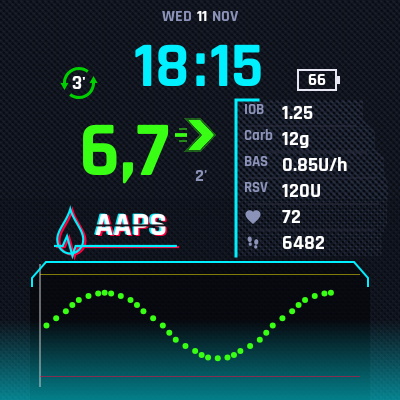
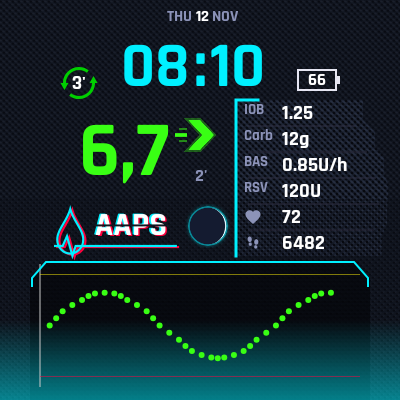
README: day look, moon and the Cyberpunk design

diff --git a/.github/README.md b/.github/README.md
@@ -8,7 +8,8 @@ the status lights count down to the end of the sensor and pod, and logs can be s
 > **Not an official AAPS release.** These changes are not reviewed by the AAPS team and are not
 > meant for upstream. AAPS controls insulin: build and use this only if you understand the code
 > and the risk. The phone side changes only how often data is sent to the watch, the status
-> lights, and how logs are saved. Nothing changes how insulin is given.
+> lights, how logs are saved, and it sends a rough place to the watch (see 4). Nothing changes
+> how insulin is given.
 
 The full upstream README is in [`/README.md`](../README.md).
 
@@ -21,7 +22,8 @@ All changes are made on top of upstream **4.0.0** (`master` at `f77abd9b82`).
 | `local/personal` | **The branch to build.** All changes below, merged. |
 | `local/wear-battery` | Less battery use on the watch, fewer messages from the phone |
 | `local/wear-hr-steps-design` | Heart rate and steps on the watch face, design *AAPS HR Steps* |
-| `local/wear-wake-animation` | Wake-up animation, design *AAPS Tech*, and later design updates |
+| `local/wear-wake-animation` | Wake-up animation, design *AAPS Tech* (now *Cyberpunk*), and later design updates |
+| `local/wear-day-night` | Day look and moon for watch face designs, design renamed to *Cyberpunk* |
 | `local/status-and-logs` | Phone: status lights count down to the real end, save logs to Downloads |
 
 `master` of this fork is a plain copy of upstream `master`.
@@ -56,30 +58,45 @@ All changes are made on top of upstream **4.0.0** (`master` at `f77abd9b82`).
 
 ### 3. Wake-up animation
 
-- A watch face design can have an optional `animation` block: **falling rain** and an image that
-  **beats at the measured heart rate**.
+- A watch face design can have an optional `animation` block: **falling rain** or short
+  **glitch bands**, and an image that **beats at the measured heart rate**.
 - It plays (24 frames per second) when you raise your wrist, when the watch face starts or becomes
   visible, or when you tap the screen. Then the face is still again.
 - How long it plays is a setting of the Custom watch face on the watch, *Wake-up animation*: as the
-  design asks (the default), off, or 3 to 30 seconds. AAPS Tech asks for 15 seconds.
+  design asks (the default), off, or 3 to 30 seconds. Cyberpunk asks for 15 seconds.
 - It never plays in ambient (always-on) mode, in simple UI, or in previews.
 - Designs without the `animation` block work exactly as before.
 
-### 4. Two watch face designs
+### 4. Day look and moon
+
+- A watch face design can have an optional `dayLook` block. In the day it is laid over the design,
+  and a picture `XDay` in the zip is shown instead of `X` (for example `BackgroundDay`).
+- **When it is day** is a setting of the Custom watch face on the watch, *Day / night look*:
+  *Automatic* (the default, from sunrise to sunset), *Day face* or *Night face*.
+- The always-on screen has its own setting, *Always-on look*: *Night face* (the default, a light
+  screen there costs battery), *Day face*, or *Same as active screen*.
+- The watch works out sunrise and sunset itself. For that, the phone sends its last known place,
+  **rounded to 0.1 degree (about 10 km)**, and only when AAPS has location permission. The phone
+  starts no location request for it. Without a place the day is 07:00 to 19:00.
+- A design can show the **phase of the moon**: the new value `moon_phase` picks a picture. The
+  watch works it out from the date, without phone or internet.
+- Both settings show only for a design that has a day look. Designs without it work as before.
+
+### 5. Two watch face designs
 
 The designs are in [`wear/cwf-designs`](../wear/cwf-designs). Install a zip the same way as any
 other custom watch face for AAPS.
 
-| AAPS Tech | AAPS HR Steps |
-|---|---|
-| ![AAPS Tech](images/aaps-tech.png) | ![AAPS HR Steps](images/aaps-hr-steps.png) |
-| Dark "cyberpunk" design: big digital time and BG in range colours, a table with IOB, carbs, basal, reservoir, heart rate and steps, the watch battery, and the graph. Rain and a beating drop in the logo when the watch wakes up. | The default analog design with round dials for COB, IOB, heart rate and steps, the watch battery, the date and a digital clock. |
+| Cyberpunk (night) | Cyberpunk (day) | AAPS HR Steps |
+|---|---|---|
+| ![Cyberpunk at night](images/aaps-tech.png) | ![Cyberpunk in the day](images/aaps-tech-day.png) | ![AAPS HR Steps](images/aaps-hr-steps.png) |
+| `Cyberpunk.zip` (was *AAPS Tech*). Dark neon design: big digital time and BG in range colours, a table with IOB, carbs, basal, reservoir, heart rate and steps, the watch battery, the moon, and the graph. Rain and a beating drop in the logo when the watch wakes up. | The same design in the day: signal yellow and black. The BG, the arrow, the table and the graph stay on black panels in their night colours, so green, yellow and red keep their meaning. Glitch bands instead of rain. | The default analog design with round dials for COB, IOB, heart rate and steps, the watch battery, the date and a digital clock. |
 
-The pictures are previews with sample values. The font of AAPS Tech is
+The pictures are previews with sample values. The font of Cyberpunk is
 [Rajdhani](https://fonts.google.com/specimen/Rajdhani) Bold (SIL Open Font License, see
 `wear/cwf-designs/fonts`).
 
-**Settings for AAPS Tech:**
+**Settings for Cyberpunk:**
 
 - The design turns off *detailed IOB* itself. This only works if watch faces may change watch
   settings. If the first row of the table shows two numbers, turn off *Show detailed IOB* in the
@@ -87,7 +104,7 @@ The pictures are previews with sample values. The font of AAPS Tech is
 - Choose *AAPS heart rate* for complication 1, *AAPS steps* for complication 2 and the watch
   battery for complication 5.
 
-### 5. Status lights count down (phone)
+### 6. Status lights count down (phone)
 
 The status lights in Overview and Actions show the **time left** until a part stops, not its age.
 
@@ -110,7 +127,7 @@ The status lights in Overview and Actions show the **time left** until a part st
 - AAPS only knows a new sensor when the BG source sends its start time. xDrip+ sends it for a G7
   only when it knows the sensor firmware, so keep xDrip+ up to date.
 
-### 6. Save logs to Downloads (phone)
+### 7. Save logs to Downloads (phone)
 
 *Maintenance* has a new item **Save logs to Downloads**. It writes the same zip as *Send logs*
 to the `Download` folder of the phone, with no email. No storage permission is needed.
@@ -121,7 +138,7 @@ to the `Download` folder of the phone, with no email. No storage permission is n
    `:app:assembleFullRelease`.
 2. Sign both with **the same key as the AAPS you have installed now**, and install with
    `adb install -r`. Then your data and settings stay.
-3. Install a design zip from `wear/cwf-designs`.
+3. Install a design zip from `wear/cwf-designs`, for example `Cyberpunk.zip`.
 
 ## Tests
 
